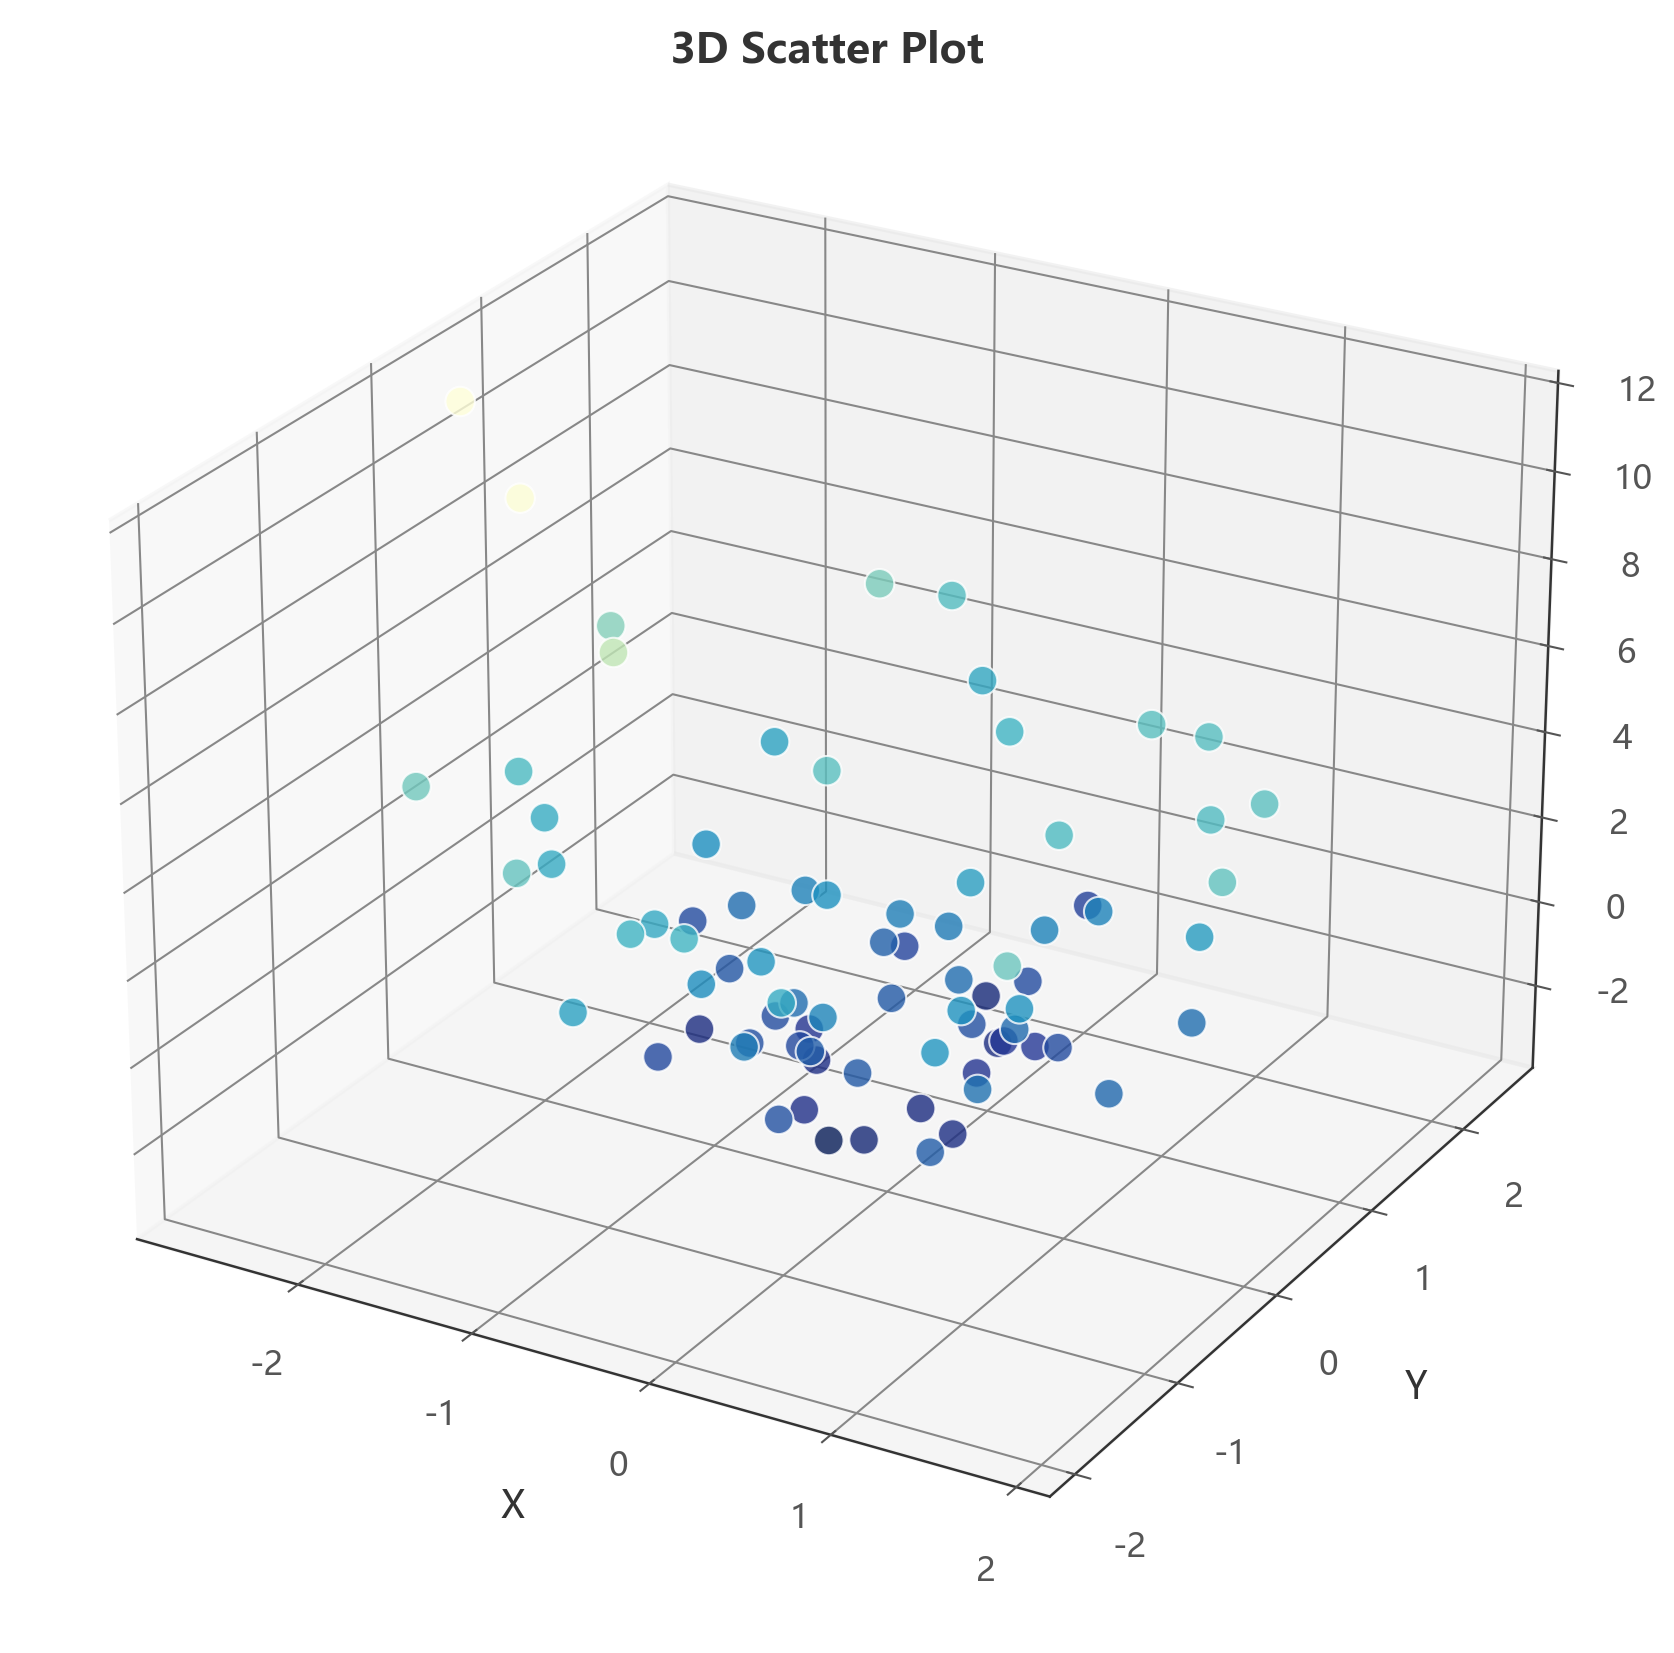
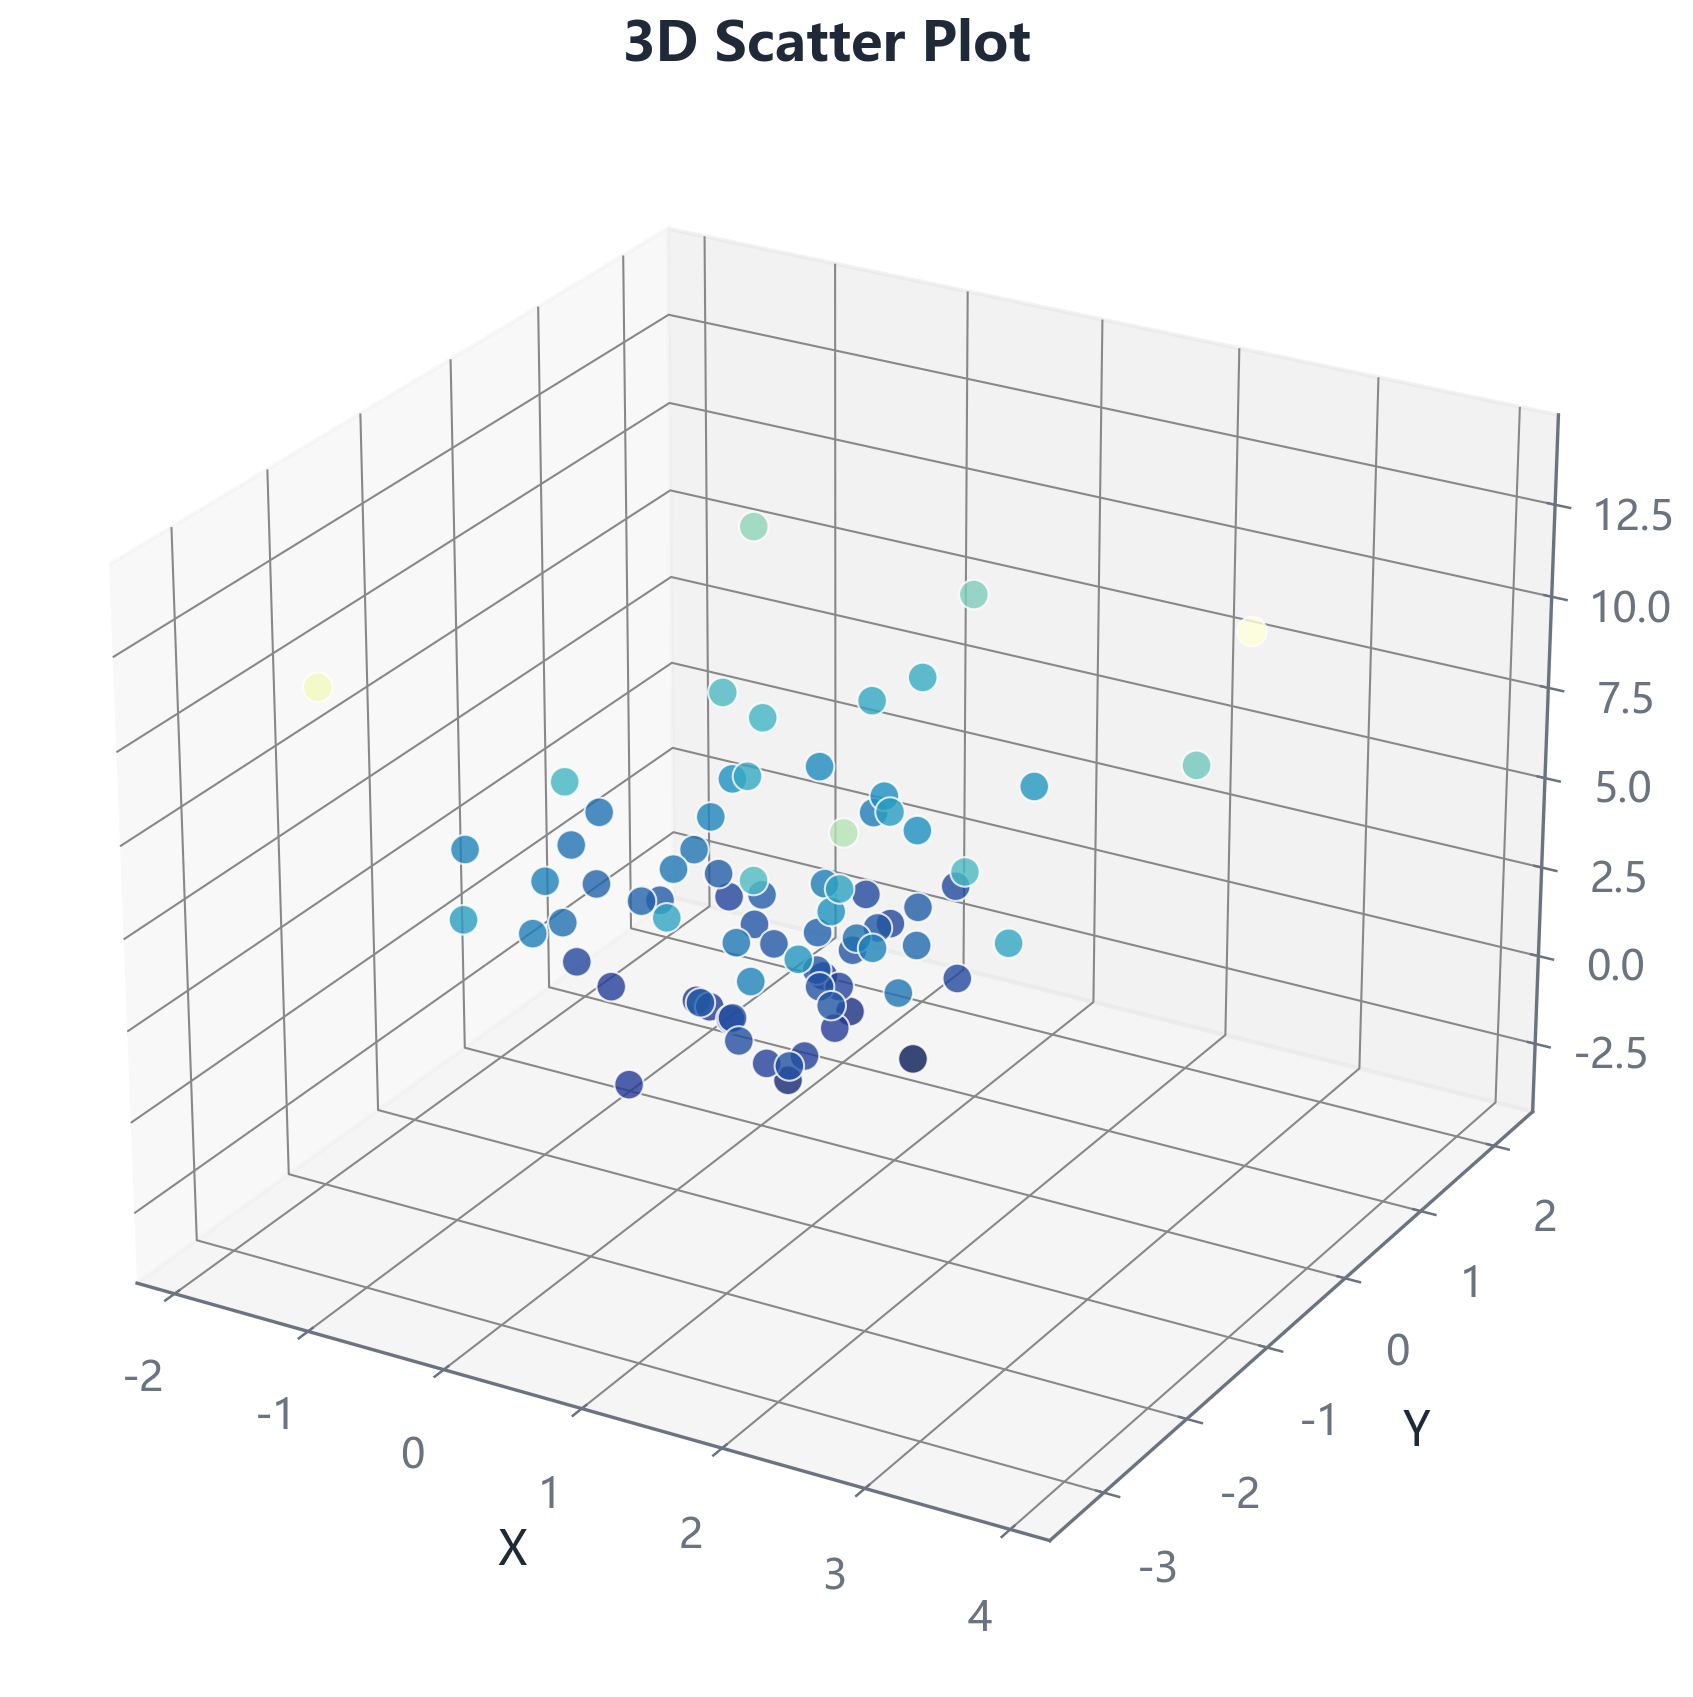
docs: regenerate new gallery images with original #3B6BA5 color scheme

diff --git a/scripts/_regen_new_gallery.py b/scripts/_regen_new_gallery.py
@@ -1,0 +1,181 @@
+"""Regenerate the 7 new gallery images with ORIGINAL color scheme."""
+import matplotlib
+matplotlib.use("Agg")
+import matplotlib.pyplot as plt
+import numpy as np
+import pandas as pd
+
+# Original colors from scripts/style.py (6a59ebf)
+C = {
+    "blue": "#3B6BA5", "blue_light": "#6B93C7", "teal": "#3D8C6A",
+    "teal_light": "#6AAF8A", "amber": "#D4942B", "crimson": "#C44D4D",
+    "crimson_light": "#D97A6B", "purple": "#7C5E9E", "purple_light": "#A88FC4",
+    "grid": "#D1D5DB", "axis": "#6B7280", "text": "#1F2937", "muted": "#9CA3AF",
+}
+PALETTE = [C["blue"], C["amber"], C["teal"], C["crimson"], C["purple"],
+           C["blue_light"], C["teal_light"], C["crimson_light"]]
+
+plt.rcParams.update({
+    "font.sans-serif": ["Microsoft YaHei", "SimHei", "DengXian", "Arial"],
+    "font.family": ["sans-serif"], "axes.unicode_minus": False,
+    "figure.dpi": 120, "savefig.dpi": 300, "savefig.bbox": "tight",
+    "savefig.pad_inches": 0.06, "figure.facecolor": "#FFFFFF",
+    "axes.facecolor": "#FFFFFF", "axes.edgecolor": "#6B7280",
+    "axes.labelcolor": "#1F2937", "axes.labelsize": 11,
+    "axes.titlesize": 13, "axes.titleweight": "bold",
+    "axes.grid": False, "axes.axisbelow": True,
+    "axes.spines.top": False, "axes.spines.right": False,
+    "legend.frameon": False, "legend.fontsize": 9.5,
+    "xtick.color": "#6B7280", "ytick.color": "#6B7280",
+})
+
+
+def style_ax(ax, grid_axis="y"):
+    ax.set_axisbelow(True)
+    ax.grid(True, axis=grid_axis, color="#D1D5DB", linestyle="-", linewidth=0.4, alpha=0.7)
+    for s in ("top", "right"):
+        if s in ax.spines:
+            ax.spines[s].set_visible(False)
+    for s in ("left", "bottom"):
+        if s in ax.spines:
+            ax.spines[s].set_color("#D1D5DB")
+            ax.spines[s].set_linewidth(0.7)
+
+
+def ttl(ax, t):
+    ax.set_title(t, fontsize=13, fontweight="bold", color="#1F2937", y=1.06, pad=10)
+
+
+np.random.seed(42)
+
+# ===== Violinplot =====
+fig, ax = plt.subplots(figsize=(8, 5))
+d1 = np.random.normal(80, 8, 50)
+d2 = np.random.normal(75, 12, 50)
+d3 = np.random.normal(88, 6, 50)
+parts = ax.violinplot([d1, d2, d3], positions=[1, 2, 3], showmeans=True, showmedians=True)
+for i, pc in enumerate(parts["bodies"]):
+    pc.set_facecolor(PALETTE[i])
+    pc.set_alpha(0.7)
+parts["cmeans"].set_color(C["crimson"])
+parts["cmedians"].set_color(C["amber"])
+ax.set_xticks([1, 2, 3])
+ax.set_xticklabels(["Method A", "Method B", "Method C"])
+ax.set_ylabel("Accuracy (%)")
+ttl(ax, "Model Accuracy Distribution")
+style_ax(ax)
+fig.tight_layout()
+fig.savefig("gallery/showcase/chart_violinplot.png", dpi=300, bbox_inches="tight", pad_inches=0.06)
+plt.close("all")
+print("Saved violinplot")
+
+# ===== Area =====
+fig, ax = plt.subplots(figsize=(8, 5))
+x = list(range(1, 13))
+y1 = [45, 42, 50, 55, 60, 58, 62, 65, 55, 48, 44, 46]
+y2 = [20, 25, 35, 45, 55, 60, 58, 50, 40, 30, 22, 18]
+y3 = [10, 12, 15, 18, 20, 22, 25, 28, 22, 18, 14, 11]
+ax.stackplot(x, y1, y2, y3, labels=["Wind", "Solar", "Hybrid"],
+             colors=[C["blue"], C["amber"], C["teal"]], alpha=0.75)
+ax.set_xlabel("Month")
+ax.set_ylabel("Output (MWh)")
+ax.legend(loc="upper left", frameon=False)
+ttl(ax, "Monthly Energy Output")
+style_ax(ax)
+fig.tight_layout()
+fig.savefig("gallery/showcase/chart_area.png", dpi=300, bbox_inches="tight", pad_inches=0.06)
+plt.close("all")
+print("Saved area")
+
+# ===== Bullet =====
+fig, ax = plt.subplots(figsize=(8.2, 4.9))
+cats = ["Efficiency", "Stability", "Cost Control", "Maintainability"]
+actual = [85, 72, 91, 78]
+threshold = [80, 75, 88, 80]
+dirs = [">=", ">=", ">=", ">="]
+y = np.arange(len(cats))
+mx = max(max(actual), max(threshold)) * 1.15
+for i in range(len(cats)):
+    passed = actual[i] >= threshold[i]
+    color = C["teal"] if passed else C["crimson"]
+    ax.barh(i, mx, color="#F3F4F6", height=0.58, edgecolor="none")
+    ax.barh(i, actual[i], color=color, height=0.42, alpha=0.9)
+    ax.vlines(threshold[i], i - 0.34, i + 0.34, color=C["amber"], linewidth=2.5)
+    ax.text(actual[i] + mx * 0.015, i, f"{actual[i]:.1f}", va="center", fontsize=10)
+    ax.text(threshold[i], i + 0.42, f"{dirs[i]}{threshold[i]}",
+            ha="center", va="bottom", fontsize=9, color=C["amber"])
+ax.set_yticks(y)
+ax.set_yticklabels(cats)
+ax.set_xlim(0, mx)
+ax.invert_yaxis()
+ax.set_xlabel("Metric Value")
+ax.set_ylabel("Metric")
+ttl(ax, "Threshold Compliance Status")
+import matplotlib.patches as mpatches
+import matplotlib.lines as mlines
+
+ax.legend(handles=[
+    mpatches.Patch(color=C["teal"], label="Pass"),
+    mpatches.Patch(color=C["crimson"], label="Fail"),
+    mlines.Line2D([], [], color=C["amber"], linewidth=2.5, label="Threshold"),
+], loc="lower right", frameon=False)
+style_ax(ax, grid_axis="x")
+fig.tight_layout()
+fig.savefig("gallery/showcase/chart_bullet.png", dpi=300, bbox_inches="tight", pad_inches=0.06)
+plt.close("all")
+print("Saved bullet")
+
+# ===== 3D Surface =====
+fig = plt.figure(figsize=(10, 7))
+ax = fig.add_subplot(111, projection="3d")
+x = np.linspace(-5, 5, 50)
+y = np.linspace(-5, 5, 50)
+X, Y = np.meshgrid(x, y)
+Z = np.sin(np.sqrt(X**2 + Y**2))
+surf = ax.plot_surface(X, Y, Z, cmap="YlGnBu_r", alpha=0.9, edgecolor="none")
+fig.colorbar(surf, ax=ax, shrink=0.5, pad=0.1)
+ax.set_xlabel("X")
+ax.set_ylabel("Y")
+ax.set_zlabel("Z")
+ax.view_init(elev=25, azim=-60)
+ttl(ax, "3D Surface Plot")
+fig.savefig("gallery/showcase/chart_3d_surface.png", dpi=300, bbox_inches="tight", pad_inches=0.06)
+plt.close("all")
+print("Saved 3d_surface")
+
+# ===== 3D Scatter =====
+fig = plt.figure(figsize=(10, 7))
+ax = fig.add_subplot(111, projection="3d")
+n = 80
+x = np.random.randn(n)
+y = np.random.randn(n)
+z = x**2 + y**2 + np.random.randn(n) * 2
+ax.scatter(x, y, z, c=z, cmap="YlGnBu_r", s=50, alpha=0.8, edgecolors="white", linewidth=0.5)
+ax.set_xlabel("X")
+ax.set_ylabel("Y")
+ax.set_zlabel("Z")
+ax.view_init(elev=25, azim=-60)
+ttl(ax, "3D Scatter Plot")
+fig.savefig("gallery/showcase/chart_3d_scatter.png", dpi=300, bbox_inches="tight", pad_inches=0.06)
+plt.close("all")
+print("Saved 3d_scatter")
+
+# ===== 3D Bar =====
+fig = plt.figure(figsize=(10, 7))
+ax = fig.add_subplot(111, projection="3d")
+xp = [0, 1, 2, 0, 1, 2]
+yp = [0, 0, 0, 1, 1, 1]
+zp = [0] * 6
+dx = [0.4] * 6
+dy = [0.4] * 6
+dz = [5, 8, 6, 7, 9, 4]
+colors = [C["blue"], C["teal"], C["amber"], C["crimson"], C["purple"], C["blue_light"]]
+ax.bar3d(xp, yp, zp, dx, dy, dz, color=colors, alpha=0.85, edgecolor="white", linewidth=0.5)
+ax.set_xlabel("Group A")
+ax.set_ylabel("Group B")
+ax.set_zlabel("Value")
+ax.view_init(elev=25, azim=-60)
+ttl(ax, "3D Bar Chart")
+fig.savefig("gallery/showcase/chart_3d_bar.png", dpi=300, bbox_inches="tight", pad_inches=0.06)
+plt.close("all")
+print("Saved 3d_bar")
